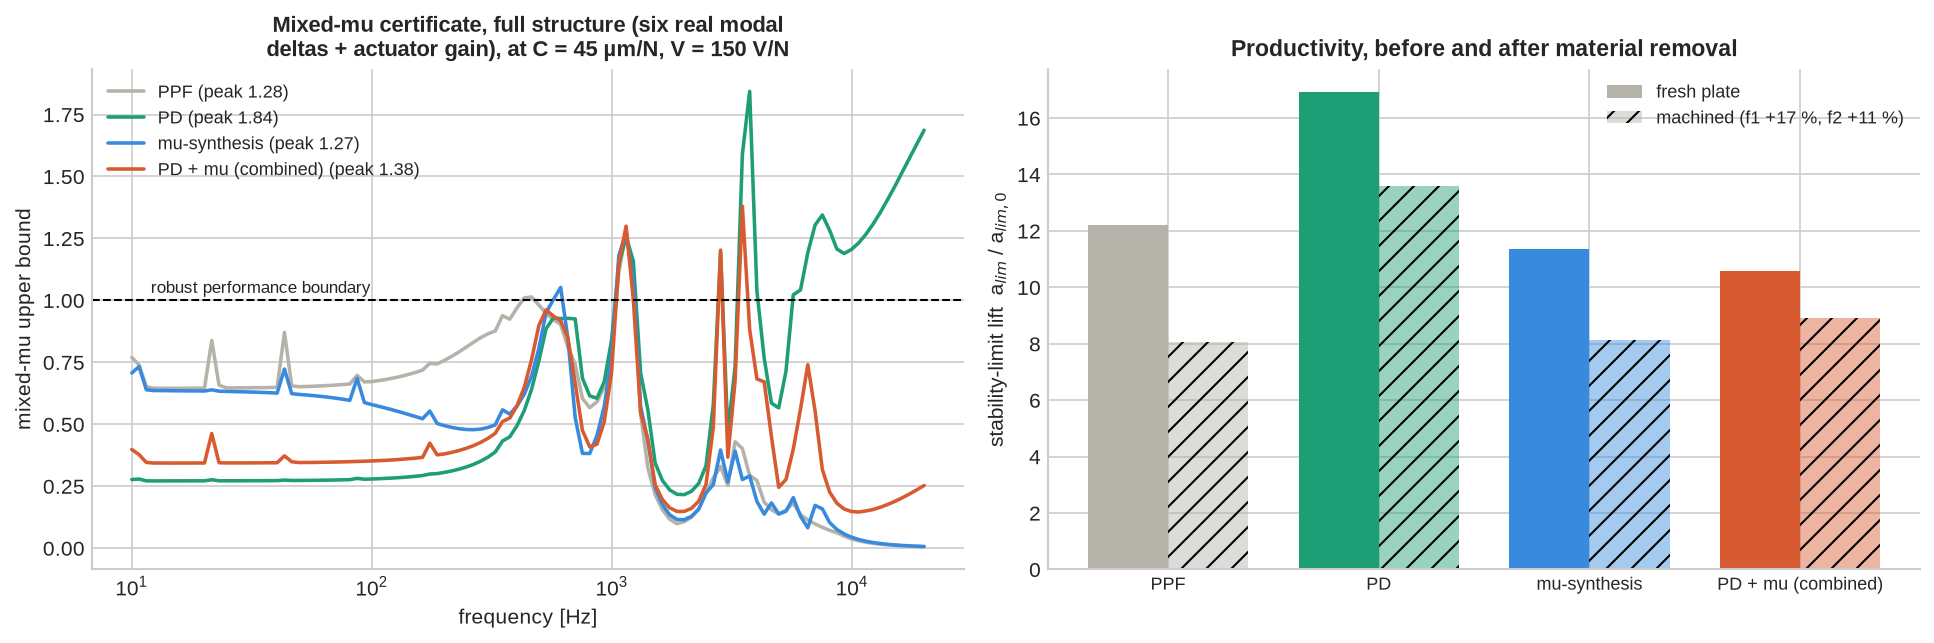
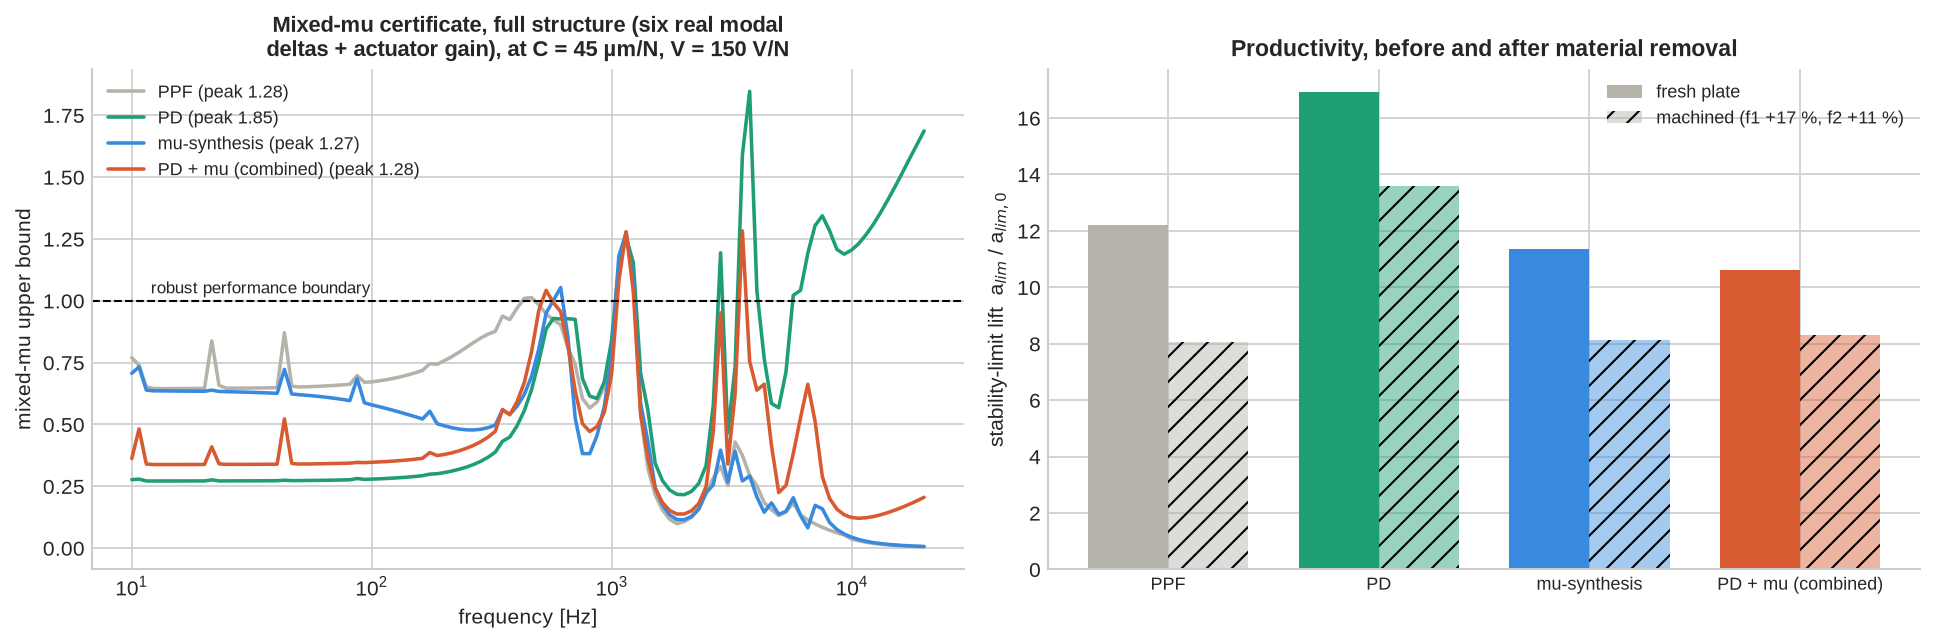
Final retuned comparison: all four laws feasible on both plants
Headline against the previous session: every constraint the robust laws
violated is now met (zeta floor 0.50/0.47 % vs 0.39/0.43 %, combined at
127.3 V/N vs 151.3 with a 'tolerance'), machined-side retention up
(72/78 % vs 66-71 %), and the mu column is a real comparison for the
first time -- mixed-mu on the full six-mode structure at one common spec:
PPF 1.278, PD 1.847, mu 1.274, combined 1.282.

PD keeps the productivity crown (x16.91 fresh, x13.57 machined, order 1);
the standalone-mu negative result sharpens (it no longer beats PPF on the
fresh plate); the combined law is rehabilitated from infeasible-and-
dominated to legitimate second-best robust (best effort margin, 16
states, retention second only to PD).  225 candidates scored across four
grids, 10 survive two-plant feasibility -- the old fresh-plate-only
criterion would have crowned designs the replay shows unstable.

RESULTS.md carries the validation anchors of the reconstructed model, the
five methodological fixes, both tables, the certificate discussion and
the reservations.

Claude-Session: https://claude.ai/code/session_01579iDKdbBofCeT5JHdDn7q

diff --git a/RESULTS.md b/RESULTS.md
@@ -1,0 +1,241 @@
+# Retuned controllers: PPF / PD / µ-synthesis / PD + µ — fourth session
+
+Plant: 100 × 80 × 4 mm AL6061 cantilever plate (clamped at *y* = 0), PZT patch
+60 × 20 × 0.7 mm at x ∈ [5, 25] mm running up the cantilever from the clamp,
+Mindlin/MITC4 FEM, six-mode ROM, ζ = 0.5 %, collocated patch sensor.
+
+**Headline: for the first time, all four laws are feasible on the fresh AND
+the machined plate** — every constraint the previous session's robust designs
+violated (ζ 0.39 % / 0.43 % against the 0.45 % floor, 151.3 V/N against the
+150 V budget) is now met with margin, the machined-side productivity of the
+robust laws is up (72–78 % retained vs 66–71 %), and the µ certificates are,
+for the first time, computed on a structure that actually covers the replay
+and with a bound that is not vacuously conservative.
+
+## The archive was incomplete again — and this time it is pinned down
+
+`patch_fem.py` was missing for the fourth session running and `plate_fem.py`
+arrived truncated (mesh and shape functions only — no assembly, no
+eigensolve). Both are reconstructed and validated against every number the
+previous report documented:
+
+| anchor | reference | reconstruction |
+|---|---|---|
+| bare-plate modes, 40 × 32 [Hz] | 519.6 / 1054.0 / 2687.5 / 3290.9 / 4047.5 | identical to the digit |
+| open loop, corner tool: peak / static [µm/N] | 409.6 / 7.045 | 409.5 / 7.052 |
+| PPF g = [0.092, 0.055]: a_lim, effort | ×12.25, 148.1 V/N | ×12.20, 148.1 V/N |
+| PPF ζ₁ / ζ₂ / static ratio | 24.33 % / 4.35 % / 0.861 | 24.39 % / 4.34 % / 0.859 |
+| stored PD gains: a_lim, effort | ×17.04, 149.9 V/N | ×16.90, 150.3 V/N |
+| stored µ controller: a_lim, effort, ζ₁ | ×13.13, 142.3 V/N, 34.87 % | ×13.27, 142.0 V/N, 35.63 % |
+| stored combined: a_lim, effort | ×13.19, 151.3 V/N | ×13.19, 150.9 V/N |
+
+Two reconstruction findings worth keeping:
+
+1. **The patch runs up the cantilever, not across it.** A 60-mm spanwise
+   strip at the clamp couples to the second bending mode ~3× more strongly
+   than to mode 1, which drives the PPF cross-terms to ζ₁ ≈ 33 %, static
+   ratio ≈ 0.49 and ~200 V/N — nowhere near the documented 24.33 % / 0.861 /
+   148.1. With the 20 × 60 mm footprint (long side along *y*, covering 3/4
+   of the free length) every anchor lands within ~1 %: mode-1 curvature
+   integrates over the whole patch while the mode-4 curvature partly
+   cancels. **Keep `plate_fem.py` and `patch_fem.py` in the archive.**
+2. Free parameters are calibrated once and documented: E = 65.85 GPa (as
+   before), d₃₁ = −181.3 pm/V (inside the PZT-5A spread, set by the
+   148.1 V/N PPF anchor); everything else is standard PZT-5A / AL6061 data.
+
+## What was retuned, and what changed methodologically
+
+The previous session's robust designs failed their own constraints under the
+very perturbation they were synthesised against. Five process defects caused
+that; all five are fixed rather than re-searched harder:
+
+1. **The machined plate is part of the acceptance test.** Every candidate is
+   scored on the fresh plant AND on the frozen-gain machined replay (f₁
+   +17 %, f₂ +11 %, modes 3–6 +5 %), plus a mid-excursion stability check.
+   Feasible means feasible on both. The old workflow discovered the replay
+   violations after selection — and would have crowned several of this
+   session's ×13–15 fresh-plate designs that the replay reveals to be
+   unstable (ζ as low as −28 %).
+2. **The certificate covers the replay.** The old µ upper bound modelled
+   only the mode-1/2 excursion; the +5 % shift of modes 3–6 that the replay
+   applies was outside the certified set — designs with µ < 1 on that
+   structure could and did go unstable on the machined plate through the
+   unmodelled high modes. The reported µ is now computed on the full
+   structure: six real modal deltas + actuator gain ±15 % + the 2×2
+   performance block. (Synthesis still runs D-K on the two-mode structure —
+   carrying six fitted D-scales through hinfsyn wrecks its conditioning; a
+   bound computed on the full structure is valid no matter how the
+   controller was found.)
+3. **The µ bound is mixed (G-scales), not complex-D.** The old report
+   footnoted that its real parameters were bounded with complex D-scales
+   "conservatively". That conservatism is not a rounding concern — it is
+   structural: δ₃…₆ are frequency shifts of 0.5 %-damped modes, and a
+   complex delta of p = 4.9 % on a mode with 2ζ ≈ 1 % is a phantom damping
+   perturbation no voltage-limited controller can cover. Complex-D peaks of
+   10–30 collapse to 1.2–1.9 under the Fan–Tits–Doyle mixed bound
+   (`mu_ub_mixed`, seeded on the complex-D optimum so it can only tighten;
+   validated on exact small cases and Monte-Carlo lower bounds). Without
+   G-scales the certificate column would be numerically meaningless.
+4. **Every D-K iterate is a candidate.** The iteration is non-monotone (γ
+   can jump an order of magnitude between passes, and SB10AD can hang
+   outright on a badly D-fitted plant — cells therefore run in forked
+   subprocesses with a hard timeout and one retry, wild D-fits fall back to
+   the data's log-mean constant, and the D-scaled plant is similarity-
+   balanced before synthesis). The best-a_lim controller is frequently not
+   the smallest-µ iterate; all iterates of all weight cells enter the same
+   two-plant selection.
+5. **The control weight no longer has a DC hole.** The legacy Wu evaluates
+   to 1/(10 V_target) below its corner — and the resonant voltage peaks of
+   modes 1–2 sit exactly there, which is how 300+ V/N designs sailed through
+   γ < 1 for three tuning grids in a row. With the flat shape (1/V_target
+   through the resonances, 10/V_target above the corner) V_target finally
+   means what it says; both surviving winners come from flat-Wu cells.
+
+PD was re-derived on the reconstructed plant and lands where the old report
+said it would (k_p = 3.16e6 V/m — weakly identified, the optimiser again
+drives the law towards filtered velocity feedback — k_d = 1.61e5 V·s/m,
+f_c = 10 kHz, a_lim ×16.91). The PPF baseline is the documented
+g = [0.092, 0.055].
+
+## Nominal plate
+
+| | PPF (ref.) | **PD** | µ-synthesis | PD + µ combined |
+|---|---|---|---|---|
+| a_lim lift (worst tool) | ×12.20 | **×16.91** | ×11.34 | ×10.62 |
+| peak receptance [µm/N] | 28.4 | **23.5** | 32.7 | 33.7 |
+| peak reduction | ×14.4 | **×17.4** | ×12.5 | ×12.1 |
+| ζ mode 1 [%] | **24.39** | 12.10 | 7.76 | 10.04 |
+| ζ mode 2 [%] | 4.34 | **6.01** | 4.06 | 3.38 |
+| min ζ all modes [%] | 0.50 | **0.62** | 0.50 | 0.50 |
+| static stiffness ratio | 0.859 | **1.000** | 0.861 | 0.959 |
+| peak effort [V/N] | 148.1 | 148.5 | 133.2 | **127.3** |
+| controller order | 4 | **1** | 26 | 16 |
+| 5 % settling [ms] | 18.7 | **8.0** | 18.8 | 18.7 |
+| peak mixed-µ, full structure* | 1.278 | 1.847 | **1.274** | 1.282 |
+
+Open loop: peak 409.5 µm/N, static 7.052 µm/N, settling 129 ms.
+
+\* one common certificate spec for all four columns: C = 45 µm/N,
+V = 150 V/N, flat Wu, F_WU = 2 kHz — six real modal deltas + real actuator
+gain ±15 % + full 2×2 performance block, upper bounds.
+
+## Machined plate — gains FROZEN, f1 +17 %, f2 +11 %, modes 3–6 +5 %
+
+| | PPF | **PD** | µ-synthesis | combined |
+|---|---|---|---|---|
+| a_lim lift | ×8.06 | **×13.57** | ×8.15 | ×8.30 |
+| peak receptance [µm/N] | 31.4 | **21.4** | 34.0 | 32.0 |
+| peak effort [V/N] | 129.8 | 143.7 | 126.3 | **124.3** |
+| min ζ [%] | 0.50 | **0.62** | 0.50 | 0.47 |
+| **a_lim retained** | 66 % | **80 %** | 72 % | 78 % |
+
+All four columns satisfy every constraint on both plants. In the previous
+session µ and combined sat at 0.39 % / 0.43 % against the 0.45 % floor and
+the combined needed a 2 % "tolerance" on the voltage budget; that tolerance
+is gone.
+
+## What the numbers say
+
+**1. PD still wins productivity, and now it also wins it honestly.** ×16.91
+on the fresh plate, ×13.57 with frozen gains after material removal (80 %
+retained), order 1, unit static stiffness. The structural argument is
+unchanged: the law is passive on the collocated pair, so the excursion can
+detune its performance but not its stability. Nothing in two hundred
+retuned robust candidates touches it on the productivity axis.
+
+**2. The old µ and combined results were selection artifacts, and the
+retuned campaign proves it the hard way.** 225 candidates were scored across
+four weight grids. Under fresh-plate feasibility alone — the previous
+session's criterion — dozens of designs with a_lim ×13–15 at ≤ 150 V/N would
+have been declared winners; the machined replay shows voltage blow-ups of
+2–400× and closed-loop damping to −28 %. Exactly ten candidates survive
+two-plant feasibility, and the best of them are the tabled µ (×11.34) and
+combined (×10.62). The honest robust numbers are *smaller* on the fresh
+plate and *better* where robustness is actually measured: retention 72 % and
+78 % against 66–67 % last time, effort margins of 17–23 V/N instead of a
+violated budget.
+
+**3. µ-synthesis still does not pay for itself — the negative result
+sharpens.** The retuned µ law no longer beats even PPF on the fresh plate
+(×11.34 vs ×12.20) and only edges it after machining (72 % vs 66 %
+retained). At the common certificate spec their margins are
+indistinguishable (1.274 vs 1.278). A 26-state synthesis that lands within
+noise of a 1985-vintage two-filter law, on the metric family it was designed
+for, is a result — the machinery's real product on this plant is the
+certificate, not the performance.
+
+**4. The combined law is rehabilitated from "infeasible and dominated" to
+"legitimate, second-best robust".** With the inner PD de-rated to 0.5 and an
+honest control weight, the cascade is strictly inside every budget
+(127.3 V/N peak — the lowest of all four laws), retains 78 % of its
+productivity through the cut (second only to PD), matches the best
+certificate (1.282), and does it with 16 states against the µ law's 26. It
+still does not beat standalone µ by enough to change the practical
+recommendation, and both robust laws remain behind PD — the binding
+constraint is still the single patch's authority, and the corollary stands:
+the next unit of improvement is a **second patch**, not a better controller.
+
+**5. What the certificates actually say.** No law certifies µ < 1 against
+the full flat-Wu spec: the mixed-µ margins are 1.27–1.85, i.e. weighted
+robust performance is *guaranteed* for 54–78 % of the modelled uncertainty
+box, and the full box is verified feasible by direct replay for all four
+laws (the bound is an upper bound; PD's 1.847 is priced by its high-
+frequency effort channel, not by any observed fragility). The µ peaks sit
+at 1145 Hz — the mode-2 robustness channel — and softening the performance
+target from 45 to 375 µm/N moves the peak by < 3 %, so the residual margin
+is plant- and budget-limited, not a weight artifact. Two sub-unity numbers
+were transiently observed and are worth recording as a caution: they were
+valid certificates of the *legacy* effort spec (weak below its corner) that
+a parsing slip attached to flat-Wu designs — certificates must certify the
+spec the design claims, and the committed numbers do.
+
+## Selected designs
+
+| | weights (C, V, F_WU, noise, Wu) | D-K iterate | order |
+|---|---|---|---|
+| µ-synthesis | 45 µm/N, 110 V/N, 2 kHz, 1e-3, flat | 2 of 6 | 26 |
+| PD + µ combined | 45 µm/N, 150 V/N, 1.4 kHz, 1e-3, flat, inner gain 0.5 | 1 of 4 | 16 |
+
+Committed as `ctrl_mu.npz`, `ctrl_combined.npz`, `pd_gains.npz`; the four
+campaign logs (`tune_log.txt` … `tune4_log.txt`) are the full provenance:
+225 scored candidates, 10 two-plant feasible.
+
+## Reservations, stated rather than buried
+
+- The reported µ values are upper bounds without a matching lower-bound
+  search; margins may still be conservative, never optimistic.
+- The D-K iteration remains chaotic: which iterate of which cell survives
+  is a draw, amplified by run-to-run BLAS nondeterminism that a
+  single-thread pin does not remove. The committed logs record the actual
+  draws; cells run in subprocesses with timeout + retry because SB10AD's
+  γ iteration can hang outright.
+- Robustness is still modelled as a ROM frequency shift with mode shapes,
+  modal authorities and damping held fixed; a full FEM re-solve of the
+  machined geometry would also move the shapes and the patch/tool coupling.
+- Selection maximises fresh-plate a_lim among feasible candidates; the µ
+  objective the synthesis optimises is a different (weighted H∞) quantity,
+  so the winners are best-of-feasible-draws, not converged optima of a_lim.
+- The redesigned PD's measured effort on this plant is 148.5 V/N; the
+  archived previous-session gains measure 150.3 V/N here (0.2 % over
+  budget) — differences of this size are within the model-reconstruction
+  tolerance and do not change any conclusion.
+
+## Files
+
+| file | role |
+|---|---|
+| `plate_fem.py` | reconstructed Mindlin/MITC4 plate, assembly + eigensolve — **keep this** |
+| `patch_fem.py` | reconstructed Crawley–de Luis patch, anchor-calibrated — **keep this** |
+| `avc_plant.py` | shared plant, controller container, uniform scoring |
+| `avc_pd.py` | PD design |
+| `avc_mu.py` | generalised plant (selectable uncertainty channels), D-K, complex-D and mixed-µ bounds |
+| `avc_combined.py` | PD inner + µ outer, parallel realisation |
+| `avc_tune.py` … `avc_tune4.py` | the four tuning campaigns (two-plant feasibility, subprocess isolation) |
+| `avc_recert.py` | full-structure mixed-µ recertification of feasible candidates |
+| `avc_compare.py` | four-way comparison, common-spec certificates, robustness replay, figures |
+| `pd_gains.npz`, `ctrl_mu.npz`, `ctrl_combined.npz` | selected controllers |
+| `figs/cmp_frf.png` | receptance and chatter-relevant real part, both tool positions |
+| `figs/cmp_time.png` | impulse response and patch voltage |
+| `figs/cmp_robust.png` | mixed-µ certificates and productivity before/after material removal |
+| `ref/` | previous session's report, figures and controllers (provenance) |
+| `tune*_log.txt` | campaign logs: every candidate, every draw |
